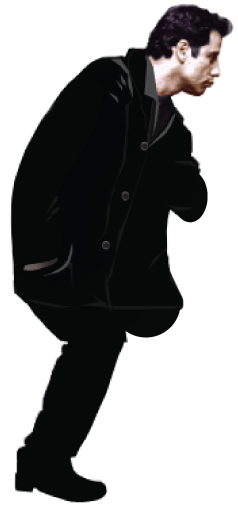
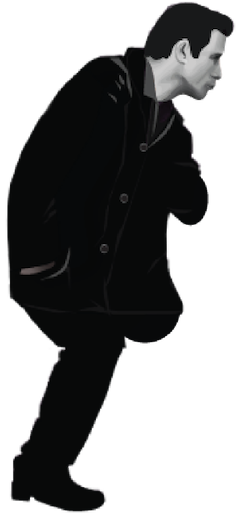
new image for body and remove face, see #83

diff --git a/js/john-travoltage/view/BackgroundNode.js b/js/john-travoltage/view/BackgroundNode.js
@@ -22,7 +22,6 @@ define( function( require ) {
   var floor = require( 'image!JOHN_TRAVOLTAGE/floor.png' );
   var rug = require( 'image!JOHN_TRAVOLTAGE/rug.png' );
   var body = require( 'image!JOHN_TRAVOLTAGE/body.png' );
-  var face = require( 'image!JOHN_TRAVOLTAGE/face.png' );
   var door = require( 'image!JOHN_TRAVOLTAGE/door.png' );
   var window = require( 'image!JOHN_TRAVOLTAGE/window.png' );
 
@@ -79,16 +78,6 @@ define( function( require ) {
       y: 60,
       scale: 0.85,
       tandem: tandem.createTandem( 'body' )
-    } ) );
-
-    // add the face image, this is temporary and will be updated soon
-    // see https://github.com/phetsims/john-travoltage/issues/83
-    // position and scale determined empirically
-    this.addChild( new Image( face, {
-      x: 381,
-      y: 61,
-      scale: 1.20,
-      tandem: tandem.createTandem( 'face' )
     } ) );
   }
 
